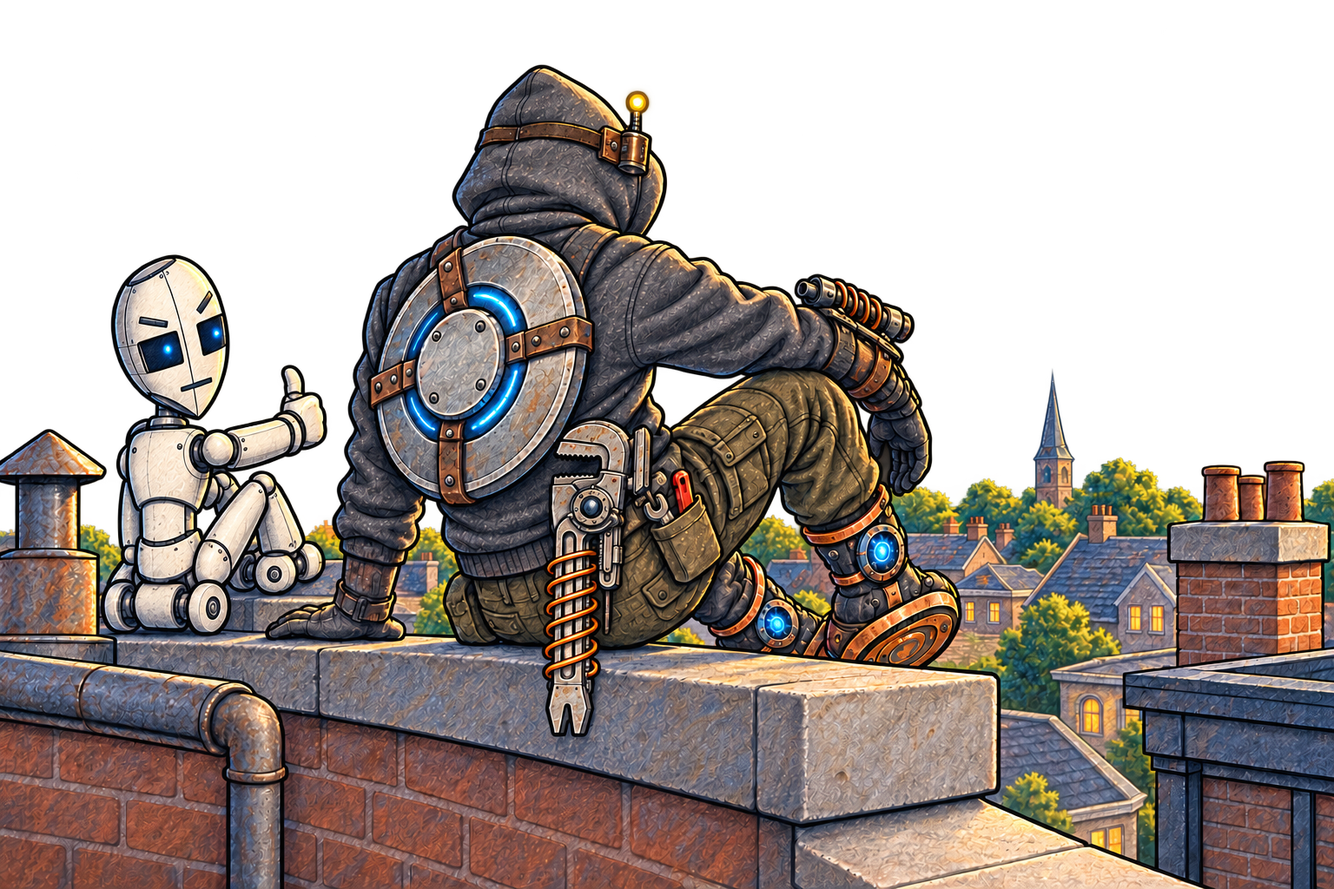
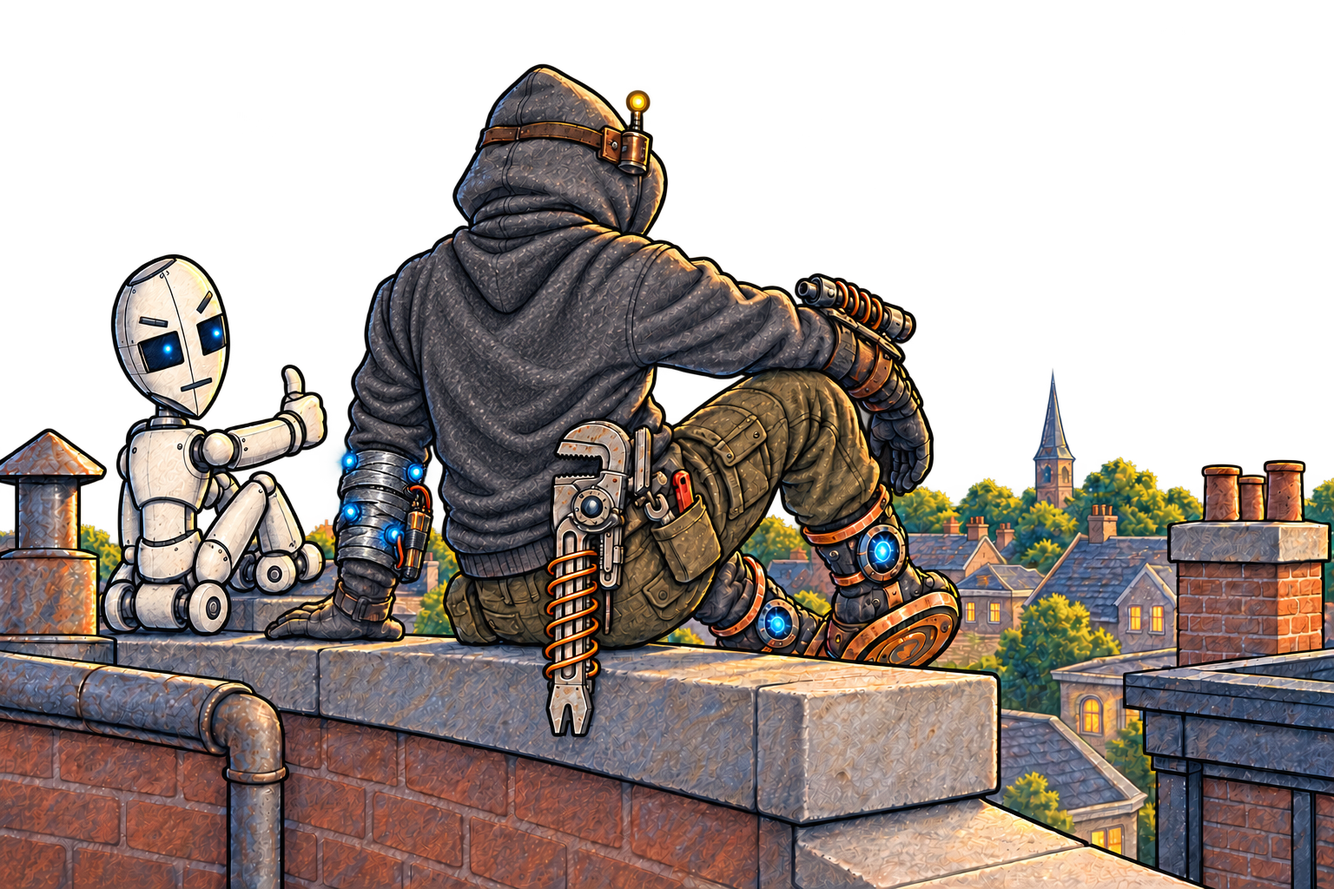
Replace physical shield artwork with energy armband

diff --git a/artwork/tech-hero/2026-09-23/index.html b/artwork/tech-hero/2026-09-23/index.html
@@ -1,5 +1,5 @@
 <!doctype html><html lang="en"><head><meta charset="utf-8"><meta name="viewport" content="width=device-width,initial-scale=1"><title>Tech Hero artwork · Paths of Wonder</title><style>
 *{box-sizing:border-box}html{background:#e5dac4;color:#242a30}body{margin:0;font:17px/1.55 system-ui,-apple-system,sans-serif}header,main,.end{max-width:1480px;margin:auto;padding:32px clamp(16px,4vw,56px)}header{padding-bottom:12px}h1,h2{font-family:Georgia,serif;line-height:1.15;font-weight:500}h1{font-size:clamp(32px,5vw,54px);margin:8px 0 20px}h2{font-size:28px;margin:8px 0}.intro{max-width:830px}.eyebrow,.label span{font-size:13px;letter-spacing:.06em;text-transform:uppercase;color:#635334}a{color:#314e46;text-underline-offset:4px}nav,.controls{display:flex;flex-wrap:wrap;gap:8px;margin:20px 0}nav a,button,footer a{min-height:44px;display:inline-flex;align-items:center;padding:9px 13px;border-radius:8px}nav a,button{border:1px solid #b6a88d;text-decoration:none;background:#f5efdf;font:inherit;color:inherit;cursor:pointer}button[aria-pressed=true]{background:#314e46;color:#fff}a:focus-visible,button:focus-visible{outline:3px solid #96612b;outline-offset:3px}main{display:grid;grid-template-columns:repeat(2,minmax(0,1fr));gap:24px;padding-top:12px}article{background:#f4eddb;border:1px solid #c6b99d;border-radius:10px;overflow:hidden;scroll-margin-top:16px}.label{padding:20px 24px 4px}.label p{font-size:14px;color:#655c48;margin:8px 0}.page{background:#f4eddb;padding:8px 16px}.art{display:block}img{display:block;width:100%;height:auto;max-height:620px;object-fit:contain}.context{display:none;font:20px/1.65 Georgia,serif;padding:8px 18px;white-space:pre-line}.reading .context{display:block}.reading .spot .art{max-width:430px;margin:auto}.large .context{font-size:25px}footer{display:flex;justify-content:space-between;flex-wrap:wrap;padding:8px 12px 14px}.end{color:#635334} @media(max-width:700px){main{grid-template-columns:1fr}.label{padding:18px 18px 4px}.page{padding:8px}.context{padding:8px 14px}img{max-height:none}}@media print{nav,.controls,footer{display:none}main{display:block}article{break-inside:avoid;margin:20px 0}}
-</style></head><body><header id="top"><div class="eyebrow">Paths of Wonder · Tech Hero · Artwork review</div><h1>The Can Opener, illustrated</h1><div class="intro"><p>Seventeen story illustrations and two color tool references. The latest revisions are collected here on warm parchment.</p><p>The hero’s face, skin, and hair stay hidden. The Can Opener’s energy blade is off when carried or used as a tool; the Stompers scene has it lying flat on the workbench.</p><p>These are review drafts. Suggested paragraph placements use your exact current text and do not modify the app or stories.</p></div><div class="controls"><button id="context-toggle" aria-pressed="false">Show story context</button><button id="type-toggle" aria-pressed="false">Larger reading text</button><a href="PLACEMENTS.md">Placement notes</a></div><nav aria-label="Illustrations"><a href="#01-garage-lab">The garage lab</a><a href="#02-old-sandwich">The very old sandwich</a><a href="#03-launcher-mishap">More power. Probably.</a><a href="#04-wheel-pop">THWOOM!</a><a href="#05-shield-cover-me">Shield Cover Me</a><a href="#06-asher-portable">Asher Portable</a><a href="#07-magnet-mishap">Magnet boot testing</a><a href="#08-stompers">The Stompers</a><a href="#09-up-the-wall">Up the wall</a><a href="#10-full-loadout">Full loadout</a><a href="#11-old-cannery">The old cannery</a><a href="#12-under-the-awning">Like a bat</a><a href="#13-max-office">An office fit for Max</a><a href="#14-max-on-stage">Max Grabs takes the stage</a><a href="#15-bot-pileup">Forklifts and rocket feet</a><a href="#16-precision">Precision</a><a href="#17-neighborhood-safe">The good kind of quiet</a><a href="#18-can-opener-active">The Can Opener — active</a><a href="#19-can-opener-tool-mode">The Can Opener — tool mode</a></nav></header><main><article id="01-garage-lab" class="opening"><div class="label"><span>opening</span><h2>The garage lab</h2><p>Scene 001 · Getting Home · after paragraph 7</p></div><div class="page"><div class="context before"><p>The voice comes from your computer: your trusty AI assistant and friend, Asher.</p></div><a class="art" href="01-garage-lab.png" aria-label="Open full-size The garage lab"><img src="01-garage-lab.png" alt="A garage workbench filled with tools, salvaged parts, a backpack, and Asher’s computer." loading="lazy"></a><div class="context after"><p>“Well, Asher, I got some storage drives, scrap metal I can melt down for other uses, a few chips, and the real win here…”</p></div></div><footer><a href="01-garage-lab.png" download>Download PNG</a><a href="#top">Back to top</a></footer></article><article id="02-old-sandwich" class="spot"><div class="label"><span>spot</span><h2>The very old sandwich</h2><p>Scene 008 · The Axe Blade · after paragraph 4</p></div><div class="page"><div class="context before"><p>The bot spins around, confused, and the cabinet door on its belly flaps open. A screwdriver falls out. Then a tape measure. Then a very old sandwich. That’s when you see your opening: a panel on its back, right between the shoulders.</p></div><a class="art" href="02-old-sandwich.png" aria-label="Open full-size The very old sandwich"><img src="02-old-sandwich.png" alt="A moldy sandwich falls from the Construction Bot’s open tool cabinet with a PLOP." loading="lazy"></a><div class="context after"><p>One more swing. The blade cuts the panel wide open, sparks fly, and the bot’s foot thrusters sputter out. It sits down with a big THUNK, like it’s taking a nap.</p></div></div><footer><a href="02-old-sandwich.png" download>Download PNG</a><a href="#top">Back to top</a></footer></article><article id="03-launcher-mishap" class="spot"><div class="label"><span>spot</span><h2>More power. Probably.</h2><p>Scene 021 · More Power · after paragraph 7</p></div><div class="page"><div class="context before"><p>You stand there with an empty wrist brace and your hair sticking straight up.</p></div><a class="art" href="03-launcher-mishap.png" aria-label="Open full-size More power. Probably."><img src="03-launcher-mishap.png" alt="A rock launcher is stuck backward in the wall; a gloved wrist has an empty brace." loading="lazy"></a><div class="context after"><p>“Ok,” you say. “Less power.”</p></div></div><footer><a href="03-launcher-mishap.png" download>Download PNG</a><a href="#top">Back to top</a></footer></article><article id="04-wheel-pop" class="spot"><div class="label"><span>spot</span><h2>THWOOM!</h2><p>Scene 026 · Heavier Than Expected · after paragraph 7</p></div><div class="page"><div class="context before"><p>The rock smashes into the front left wheel, and it pops right off its axle. The Load-Bot tips forward, spins in a slow, sad circle, and crashes onto its face with a BOOM that sets off a car alarm.</p></div><a class="art" href="04-wheel-pop.png" aria-label="Open full-size THWOOM!"><img src="04-wheel-pop.png" alt="The smiling Load-Bot loses a wheel beside the market, with a THWOOM." loading="lazy"></a><div class="context after"><p>It’s down, but it’s not out. Its forklift arms are still flailing, and your coil is empty. But it can’t reach behind itself.</p></div></div><footer><a href="04-wheel-pop.png" download>Download PNG</a><a href="#top">Back to top</a></footer></article><article id="05-shield-cover-me" class="feature"><div class="label"><span>feature</span><h2>Shield Cover Me</h2><p>Scene 033 · Shield Cover Me · after paragraph 3</p></div><div class="page"><div class="context before"><p>The stick skids off the light in a shower of sparks. The shield flickers, but it holds! The bot hits it again, and again, and you push forward behind the shield one step at a time. But you can’t get around it, and you can’t exactly fight with a shield and a thumb.</p></div><a class="art" href="05-shield-cover-me.png" aria-label="Open full-size Shield Cover Me"><img src="05-shield-cover-me.png" alt="A gloved thumb holds a loose shield emitter in place as a Security Bot strikes the blue shield." loading="lazy"></a><div class="context after"><p>“ASHER! SHIELD! COVER ME!”</p></div></div><footer><a href="05-shield-cover-me.png" download>Download PNG</a><a href="#top">Back to top</a></footer></article><article id="06-asher-portable" class="opening"><div class="label"><span>opening</span><h2>Asher Portable</h2><p>Scene 041 · Miniaturizing Asher · after paragraph 6</p></div><div class="page"><div class="context before"><p>“Welcome to the team, Asher Portable.”</p></div><a class="art" href="06-asher-portable.png" aria-label="Open full-size Asher Portable"><img src="06-asher-portable.png" alt="Asher Portable: goggles with a clip-on display, camera, earbud, and yellow-bulb signal booster." loading="lazy"></a><div class="context after"><p>“That is simply a description of what I am, sir.”</p></div></div><footer><a href="06-asher-portable.png" download>Download PNG</a><a href="#top">Back to top</a></footer></article><article id="07-magnet-mishap" class="spot"><div class="label"><span>spot</span><h2>Magnet boot testing</h2><p>Scene 044 · Magnet Boot Testing · after paragraph 9</p></div><div class="page"><div class="context before"><p>A wrench slides across the workbench and sticks to your left ankle. Then a screwdriver. Then a whole handful of bolts.</p></div><a class="art" href="07-magnet-mishap.png" aria-label="Open full-size Magnet boot testing"><img src="07-magnet-mishap.png" alt="Magnet boots stick to the refrigerator and floor plate, with tools clinging to one ankle." loading="lazy"></a><div class="context after"><p>“You are collecting tools at an impressive rate, sir.”</p></div></div><footer><a href="07-magnet-mishap.png" download>Download PNG</a><a href="#top">Back to top</a></footer></article><article id="08-stompers" class="feature"><div class="label"><span>feature</span><h2>The Stompers</h2><p>Scene 045 · The Stompers · after paragraph 9</p></div><div class="page"><div class="context before"><p>“The Stompers.”</p></div><a class="art" href="08-stompers.png" aria-label="Open full-size The Stompers"><img src="08-stompers.png" alt="The fully covered hero bounces toward the workbench; the powered-down Can Opener lies flat on the wood." loading="lazy"></a><div class="context after"><p>A pause.</p></div></div><footer><a href="08-stompers.png" download>Download PNG</a><a href="#top">Back to top</a></footer></article><article id="09-up-the-wall" class="spot"><div class="label"><span>spot</span><h2>Up the wall</h2><p>Scene 047 · Up the Wall · after paragraph 7</p></div><div class="page"><div class="context before"><p>Clunk. Clunk. Clunk. You walk up the wall one heavy step at a time, staying in the corner where the bot can’t lean out far enough to aim at you. It knows you’re out there somewhere, so it keeps zapping the mailbox just in case.</p></div><a class="art" href="09-up-the-wall.png" aria-label="Open full-size Up the wall"><img src="09-up-the-wall.png" alt="The fully covered hero climbs a steel wall using magnetic boots, with the inactive wrench on their belt." loading="lazy"></a><div class="context after"><p>You reach the top and peek over the edge. The bot has its back to you, skate wheels locked, leaning out over the front of the roof.</p></div></div><footer><a href="09-up-the-wall.png" download>Download PNG</a><a href="#top">Back to top</a></footer></article><article id="10-full-loadout" class="feature"><div class="label"><span>feature</span><h2>Full loadout</h2><p>Scene 049 · Full Loadout · after paragraph 7</p></div><div class="page"><div class="context before"><p>You look out over {world_name} from the roof. The Can Opener, The Wrist Wrock-It, Shield Cover Me, Asher Portable, The Stompers…every single one of them got you up here.</p></div><a class="art" href="10-full-loadout.png" aria-label="Open full-size Full loadout"><img src="10-full-loadout.png" alt="The fully covered hero rests above the neighborhood with all their inventions and a blue-eyed Security Bot." loading="lazy"></a><div class="context after"><p>The bot’s visor goes dark.</p></div></div><footer><a href="10-full-loadout.png" download>Download PNG</a><a href="#top">Back to top</a></footer></article><article id="11-old-cannery" class="feature"><div class="label"><span>feature</span><h2>The old cannery</h2><p>Scene 053 · A Destination · after paragraph 6</p></div><div class="page"><div class="context before"><p>GRABS AWESOME STRUCTURES. MAKING YOUR NEIGHBORHOOD MINE! The word “MINE” has been crossed out by hand, and “BETTER” is written above it. Under that, in gold letters two feet tall: GAS. WE BLOW YOU AWAY!</p></div><a class="art" href="11-old-cannery.png" aria-label="Open full-size The old cannery"><img src="11-old-cannery.png" alt="The fenced cannery has a rooftop antenna, trucks of broken robots, and gold GAS signs." loading="lazy"></a><div class="context after"><p>You stare at it for a long moment.</p></div></div><footer><a href="11-old-cannery.png" download>Download PNG</a><a href="#top">Back to top</a></footer></article><article id="12-under-the-awning" class="spot"><div class="label"><span>spot</span><h2>Like a bat</h2><p>Scene 054 · Drone Spotted · after paragraph 11</p></div><div class="page"><div class="context before"><p>You catch it with two fingers. Way, WAY too close.</p></div><a class="art" href="12-under-the-awning.png" aria-label="Open full-size Like a bat"><img src="12-under-the-awning.png" alt="The fully covered hero uses magnetic boots beneath an awning as a surveillance drone passes." loading="lazy"></a><div class="context after"><p>So it isn’t just a signal. Somebody is watching the whole neighborhood…and now you know his name.</p></div></div><footer><a href="12-under-the-awning.png" download>Download PNG</a><a href="#top">Back to top</a></footer></article><article id="13-max-office" class="feature"><div class="label"><span>feature</span><h2>An office fit for Max</h2><p>Scene 056 · The Side Window · after paragraph 6</p></div><div class="page"><div class="context before"><p>“Sir, there is a computer on that desk, and it is unlocked. There is a sticky note on the screen. It says ‘Password: password.’”</p></div><a class="art" href="13-max-office.png" aria-label="Open full-size An office fit for Max"><img src="13-max-office.png" alt="Max’s oversized office has a painting of him shaking hands with himself and a password note." loading="lazy"></a><div class="context after"><p>“He didn’t even need it. He left himself logged in.”</p></div></div><footer><a href="13-max-office.png" download>Download PNG</a><a href="#top">Back to top</a></footer></article><article id="14-max-on-stage" class="feature"><div class="label"><span>feature</span><h2>Max Grabs takes the stage</h2><p>Scene 058 · The Man in the Shiny Suit · after paragraph 21</p></div><div class="page"><div class="context before"><p>Standing behind the stage, still as statues, are two Security Bots with steady red eyes. One of them is giving the crowd a thumbs-up.</p></div><a class="art" href="14-max-on-stage.png" aria-label="Open full-size Max Grabs takes the stage"><img src="14-max-on-stage.png" alt="Max Grabs grins on a stage with gold balloons, flying note cards, and Security Bots." loading="lazy"></a><div class="context after"><p>“That is him, sir,” Asher says in your ear.</p></div></div><footer><a href="14-max-on-stage.png" download>Download PNG</a><a href="#top">Back to top</a></footer></article><article id="15-bot-pileup" class="spot"><div class="label"><span>spot</span><h2>Forklifts and rocket feet</h2><p>Scene 060 · The Front Gate · after paragraph 7</p></div><div class="page"><div class="context before"><p>You pop one panel. You pop the other. Pull. Pull. Both sets of eyes fade to soft blue.</p></div><a class="art" href="15-bot-pileup.png" aria-label="Open full-size Forklifts and rocket feet"><img src="15-bot-pileup.png" alt="A Load-Bot and Construction Bot are tangled in a heap, their eyes now blue." loading="lazy"></a><div class="context after"><p>“Sorry, guys,” you say, and you mean it. “I’ll be back for you.”</p></div></div><footer><a href="15-bot-pileup.png" download>Download PNG</a><a href="#top">Back to top</a></footer></article><article id="16-precision" class="feature"><div class="label"><span>feature</span><h2>Precision</h2><p>Scene 066 · Precision · after paragraph 3</p></div><div class="page"><div class="context before"><p>Every terminal goes dark at once. The Robot Improver 3 makes a sound like a very large balloon letting go, and its lights go out row by row. On the roof, the antenna stops humming.</p></div><a class="art" href="16-precision.png?v=2" aria-label="Open full-size Precision"><img src="16-precision.png?v=2" alt="A precise blue-white discharge passes Max and strikes the cannery’s control terminals." loading="lazy"></a><div class="context after"><p>And all across {world_name}, in alleys and empty lots and the middle of Elm Street, every haywire robot slows down, lowers its arms, and stops. Hundreds of flickering red lights fade to a soft, calm blue.</p></div></div><footer><a href="16-precision.png?v=2" download>Download PNG</a><a href="#top">Back to top</a></footer></article><article id="17-neighborhood-safe" class="feature"><div class="label"><span>feature</span><h2>The good kind of quiet</h2><p>Scene 068 · Neighborhood Safe · after paragraph 5</p></div><div class="page"><div class="context before"><p>You nod back, and you keep walking.</p></div><a class="art" href="17-neighborhood-safe.png" aria-label="Open full-size The good kind of quiet"><img src="17-neighborhood-safe.png" alt="A child pats a peaceful robot, Mrs. Ruiz salutes, and the fully covered hero walks home." loading="lazy"></a><div class="context after"><p>You pass the top of Main Street. Mr. Lin’s bench is still gone. There are four bolts in the sidewalk where it used to be, and nothing else.</p></div></div><footer><a href="17-neighborhood-safe.png" download>Download PNG</a><a href="#top">Back to top</a></footer></article><article id="18-can-opener-active" class="reference"><div class="label"><span>reference</span><h2>The Can Opener — active</h2><p>Scene 005 · Building The Can Opener · after paragraph 11</p></div><div class="page"><div class="context before"><p>The wrench head shifts with a sharp mechanical click, and a crackling energy blade snaps out along the side of the head like an axe made of lightning.</p></div><a class="art" href="18-can-opener-active.png" aria-label="Open full-size The Can Opener — active"><img src="18-can-opener-active.png" alt="The Can Opener in active mode: steel wrench, copper coils, a blue power core, and an energy axe blade." loading="lazy"></a><div class="context after"><p>You stare at it.</p></div></div><footer><a href="18-can-opener-active.png" download>Download PNG</a><a href="#top">Back to top</a></footer></article><article id="19-can-opener-tool-mode" class="reference"><div class="label"><span>reference</span><h2>The Can Opener — tool mode</h2><p>Continuity reference · powered-down tool</p></div><div class="page"><a class="art" href="19-can-opener-tool-mode.png" aria-label="Open full-size The Can Opener — tool mode"><img src="19-can-opener-tool-mode.png" alt="The Can Opener in tool mode: steel jaws, copper coils, a dark core, and no deployed blade." loading="lazy"></a></div><footer><a href="19-can-opener-tool-mode.png" download>Download PNG</a><a href="#top">Back to top</a></footer></article></main><div class="end">Tap an image for its full-size PNG. <a href="README.md">Production notes</a> · <a href="prompts.json">Prompt set</a></div><script>
+</style></head><body><header id="top"><div class="eyebrow">Paths of Wonder · Tech Hero · Artwork review</div><h1>The Can Opener, illustrated</h1><div class="intro"><p>Seventeen story illustrations and two color tool references. The latest revisions are collected here on warm parchment.</p><p>The hero’s face, skin, and hair stay hidden. The Can Opener’s energy blade is off when carried or used as a tool; the Stompers scene has it lying flat on the workbench.</p><p>These are review drafts. Suggested paragraph placements use your exact current text and do not modify the app or stories.</p></div><div class="controls"><button id="context-toggle" aria-pressed="false">Show story context</button><button id="type-toggle" aria-pressed="false">Larger reading text</button><a href="PLACEMENTS.md">Placement notes</a></div><nav aria-label="Illustrations"><a href="#01-garage-lab">The garage lab</a><a href="#02-old-sandwich">The very old sandwich</a><a href="#03-launcher-mishap">More power. Probably.</a><a href="#04-wheel-pop">THWOOM!</a><a href="#05-shield-cover-me">Shield Cover Me</a><a href="#06-asher-portable">Asher Portable</a><a href="#07-magnet-mishap">Magnet boot testing</a><a href="#08-stompers">The Stompers</a><a href="#09-up-the-wall">Up the wall</a><a href="#10-full-loadout">Full loadout</a><a href="#11-old-cannery">The old cannery</a><a href="#12-under-the-awning">Like a bat</a><a href="#13-max-office">An office fit for Max</a><a href="#14-max-on-stage">Max Grabs takes the stage</a><a href="#15-bot-pileup">Forklifts and rocket feet</a><a href="#16-precision">Precision</a><a href="#17-neighborhood-safe">The good kind of quiet</a><a href="#18-can-opener-active">The Can Opener — active</a><a href="#19-can-opener-tool-mode">The Can Opener — tool mode</a></nav></header><main><article id="01-garage-lab" class="opening"><div class="label"><span>opening</span><h2>The garage lab</h2><p>Scene 001 · Getting Home · after paragraph 7</p></div><div class="page"><div class="context before"><p>The voice comes from your computer: your trusty AI assistant and friend, Asher.</p></div><a class="art" href="01-garage-lab.png" aria-label="Open full-size The garage lab"><img src="01-garage-lab.png" alt="A garage workbench filled with tools, salvaged parts, a backpack, and Asher’s computer." loading="lazy"></a><div class="context after"><p>“Well, Asher, I got some storage drives, scrap metal I can melt down for other uses, a few chips, and the real win here…”</p></div></div><footer><a href="01-garage-lab.png" download>Download PNG</a><a href="#top">Back to top</a></footer></article><article id="02-old-sandwich" class="spot"><div class="label"><span>spot</span><h2>The very old sandwich</h2><p>Scene 008 · The Axe Blade · after paragraph 4</p></div><div class="page"><div class="context before"><p>The bot spins around, confused, and the cabinet door on its belly flaps open. A screwdriver falls out. Then a tape measure. Then a very old sandwich. That’s when you see your opening: a panel on its back, right between the shoulders.</p></div><a class="art" href="02-old-sandwich.png" aria-label="Open full-size The very old sandwich"><img src="02-old-sandwich.png" alt="A moldy sandwich falls from the Construction Bot’s open tool cabinet with a PLOP." loading="lazy"></a><div class="context after"><p>One more swing. The blade cuts the panel wide open, sparks fly, and the bot’s foot thrusters sputter out. It sits down with a big THUNK, like it’s taking a nap.</p></div></div><footer><a href="02-old-sandwich.png" download>Download PNG</a><a href="#top">Back to top</a></footer></article><article id="03-launcher-mishap" class="spot"><div class="label"><span>spot</span><h2>More power. Probably.</h2><p>Scene 021 · More Power · after paragraph 7</p></div><div class="page"><div class="context before"><p>You stand there with an empty wrist brace and your hair sticking straight up.</p></div><a class="art" href="03-launcher-mishap.png" aria-label="Open full-size More power. Probably."><img src="03-launcher-mishap.png" alt="A rock launcher is stuck backward in the wall; a gloved wrist has an empty brace." loading="lazy"></a><div class="context after"><p>“Ok,” you say. “Less power.”</p></div></div><footer><a href="03-launcher-mishap.png" download>Download PNG</a><a href="#top">Back to top</a></footer></article><article id="04-wheel-pop" class="spot"><div class="label"><span>spot</span><h2>THWOOM!</h2><p>Scene 026 · Heavier Than Expected · after paragraph 7</p></div><div class="page"><div class="context before"><p>The rock smashes into the front left wheel, and it pops right off its axle. The Load-Bot tips forward, spins in a slow, sad circle, and crashes onto its face with a BOOM that sets off a car alarm.</p></div><a class="art" href="04-wheel-pop.png" aria-label="Open full-size THWOOM!"><img src="04-wheel-pop.png" alt="The smiling Load-Bot loses a wheel beside the market, with a THWOOM." loading="lazy"></a><div class="context after"><p>It’s down, but it’s not out. Its forklift arms are still flailing, and your coil is empty. But it can’t reach behind itself.</p></div></div><footer><a href="04-wheel-pop.png" download>Download PNG</a><a href="#top">Back to top</a></footer></article><article id="05-shield-cover-me" class="feature"><div class="label"><span>feature</span><h2>Shield Cover Me</h2><p>Scene 033 · Shield Cover Me · after paragraph 3</p></div><div class="page"><div class="context before"><p>The stick skids off the light in a shower of sparks. The shield flickers, but it holds! The bot hits it again, and again, and you push forward behind the shield one step at a time. But you can’t get around it, and you can’t exactly fight with a shield and a thumb.</p></div><a class="art" href="05-shield-cover-me.png?v=2" aria-label="Open full-size Shield Cover Me"><img src="05-shield-cover-me.png?v=2" alt="A duct-taped armband with glowing blue dots and a wired side power pack projects an energy shield against a Security Bot’s sparking baton." loading="lazy"></a><div class="context after"><p>“ASHER! SHIELD! COVER ME!”</p></div></div><footer><a href="05-shield-cover-me.png?v=2" download>Download PNG</a><a href="#top">Back to top</a></footer></article><article id="06-asher-portable" class="opening"><div class="label"><span>opening</span><h2>Asher Portable</h2><p>Scene 041 · Miniaturizing Asher · after paragraph 6</p></div><div class="page"><div class="context before"><p>“Welcome to the team, Asher Portable.”</p></div><a class="art" href="06-asher-portable.png" aria-label="Open full-size Asher Portable"><img src="06-asher-portable.png" alt="Asher Portable: goggles with a clip-on display, camera, earbud, and yellow-bulb signal booster." loading="lazy"></a><div class="context after"><p>“That is simply a description of what I am, sir.”</p></div></div><footer><a href="06-asher-portable.png" download>Download PNG</a><a href="#top">Back to top</a></footer></article><article id="07-magnet-mishap" class="spot"><div class="label"><span>spot</span><h2>Magnet boot testing</h2><p>Scene 044 · Magnet Boot Testing · after paragraph 9</p></div><div class="page"><div class="context before"><p>A wrench slides across the workbench and sticks to your left ankle. Then a screwdriver. Then a whole handful of bolts.</p></div><a class="art" href="07-magnet-mishap.png" aria-label="Open full-size Magnet boot testing"><img src="07-magnet-mishap.png" alt="Magnet boots stick to the refrigerator and floor plate, with tools clinging to one ankle." loading="lazy"></a><div class="context after"><p>“You are collecting tools at an impressive rate, sir.”</p></div></div><footer><a href="07-magnet-mishap.png" download>Download PNG</a><a href="#top">Back to top</a></footer></article><article id="08-stompers" class="feature"><div class="label"><span>feature</span><h2>The Stompers</h2><p>Scene 045 · The Stompers · after paragraph 9</p></div><div class="page"><div class="context before"><p>“The Stompers.”</p></div><a class="art" href="08-stompers.png" aria-label="Open full-size The Stompers"><img src="08-stompers.png" alt="The fully covered hero bounces toward the workbench; the powered-down Can Opener lies flat on the wood." loading="lazy"></a><div class="context after"><p>A pause.</p></div></div><footer><a href="08-stompers.png" download>Download PNG</a><a href="#top">Back to top</a></footer></article><article id="09-up-the-wall" class="spot"><div class="label"><span>spot</span><h2>Up the wall</h2><p>Scene 047 · Up the Wall · after paragraph 7</p></div><div class="page"><div class="context before"><p>Clunk. Clunk. Clunk. You walk up the wall one heavy step at a time, staying in the corner where the bot can’t lean out far enough to aim at you. It knows you’re out there somewhere, so it keeps zapping the mailbox just in case.</p></div><a class="art" href="09-up-the-wall.png" aria-label="Open full-size Up the wall"><img src="09-up-the-wall.png" alt="The fully covered hero climbs a steel wall using magnetic boots, with the inactive wrench on their belt." loading="lazy"></a><div class="context after"><p>You reach the top and peek over the edge. The bot has its back to you, skate wheels locked, leaning out over the front of the roof.</p></div></div><footer><a href="09-up-the-wall.png" download>Download PNG</a><a href="#top">Back to top</a></footer></article><article id="10-full-loadout" class="feature"><div class="label"><span>feature</span><h2>Full loadout</h2><p>Scene 049 · Full Loadout · after paragraph 7</p></div><div class="page"><div class="context before"><p>You look out over {world_name} from the roof. The Can Opener, The Wrist Wrock-It, Shield Cover Me, Asher Portable, The Stompers…every single one of them got you up here.</p></div><a class="art" href="10-full-loadout.png?v=2" aria-label="Open full-size Full loadout"><img src="10-full-loadout.png?v=2" alt="The fully covered hero rests on a rooftop with a duct-taped shield armband, other inventions, and a blue-eyed Security Bot." loading="lazy"></a><div class="context after"><p>The bot’s visor goes dark.</p></div></div><footer><a href="10-full-loadout.png?v=2" download>Download PNG</a><a href="#top">Back to top</a></footer></article><article id="11-old-cannery" class="feature"><div class="label"><span>feature</span><h2>The old cannery</h2><p>Scene 053 · A Destination · after paragraph 6</p></div><div class="page"><div class="context before"><p>GRABS AWESOME STRUCTURES. MAKING YOUR NEIGHBORHOOD MINE! The word “MINE” has been crossed out by hand, and “BETTER” is written above it. Under that, in gold letters two feet tall: GAS. WE BLOW YOU AWAY!</p></div><a class="art" href="11-old-cannery.png" aria-label="Open full-size The old cannery"><img src="11-old-cannery.png" alt="The fenced cannery has a rooftop antenna, trucks of broken robots, and gold GAS signs." loading="lazy"></a><div class="context after"><p>You stare at it for a long moment.</p></div></div><footer><a href="11-old-cannery.png" download>Download PNG</a><a href="#top">Back to top</a></footer></article><article id="12-under-the-awning" class="spot"><div class="label"><span>spot</span><h2>Like a bat</h2><p>Scene 054 · Drone Spotted · after paragraph 11</p></div><div class="page"><div class="context before"><p>You catch it with two fingers. Way, WAY too close.</p></div><a class="art" href="12-under-the-awning.png" aria-label="Open full-size Like a bat"><img src="12-under-the-awning.png" alt="The fully covered hero uses magnetic boots beneath an awning as a surveillance drone passes." loading="lazy"></a><div class="context after"><p>So it isn’t just a signal. Somebody is watching the whole neighborhood…and now you know his name.</p></div></div><footer><a href="12-under-the-awning.png" download>Download PNG</a><a href="#top">Back to top</a></footer></article><article id="13-max-office" class="feature"><div class="label"><span>feature</span><h2>An office fit for Max</h2><p>Scene 056 · The Side Window · after paragraph 6</p></div><div class="page"><div class="context before"><p>“Sir, there is a computer on that desk, and it is unlocked. There is a sticky note on the screen. It says ‘Password: password.’”</p></div><a class="art" href="13-max-office.png" aria-label="Open full-size An office fit for Max"><img src="13-max-office.png" alt="Max’s oversized office has a painting of him shaking hands with himself and a password note." loading="lazy"></a><div class="context after"><p>“He didn’t even need it. He left himself logged in.”</p></div></div><footer><a href="13-max-office.png" download>Download PNG</a><a href="#top">Back to top</a></footer></article><article id="14-max-on-stage" class="feature"><div class="label"><span>feature</span><h2>Max Grabs takes the stage</h2><p>Scene 058 · The Man in the Shiny Suit · after paragraph 21</p></div><div class="page"><div class="context before"><p>Standing behind the stage, still as statues, are two Security Bots with steady red eyes. One of them is giving the crowd a thumbs-up.</p></div><a class="art" href="14-max-on-stage.png" aria-label="Open full-size Max Grabs takes the stage"><img src="14-max-on-stage.png" alt="Max Grabs grins on a stage with gold balloons, flying note cards, and Security Bots." loading="lazy"></a><div class="context after"><p>“That is him, sir,” Asher says in your ear.</p></div></div><footer><a href="14-max-on-stage.png" download>Download PNG</a><a href="#top">Back to top</a></footer></article><article id="15-bot-pileup" class="spot"><div class="label"><span>spot</span><h2>Forklifts and rocket feet</h2><p>Scene 060 · The Front Gate · after paragraph 7</p></div><div class="page"><div class="context before"><p>You pop one panel. You pop the other. Pull. Pull. Both sets of eyes fade to soft blue.</p></div><a class="art" href="15-bot-pileup.png" aria-label="Open full-size Forklifts and rocket feet"><img src="15-bot-pileup.png" alt="A Load-Bot and Construction Bot are tangled in a heap, their eyes now blue." loading="lazy"></a><div class="context after"><p>“Sorry, guys,” you say, and you mean it. “I’ll be back for you.”</p></div></div><footer><a href="15-bot-pileup.png" download>Download PNG</a><a href="#top">Back to top</a></footer></article><article id="16-precision" class="feature"><div class="label"><span>feature</span><h2>Precision</h2><p>Scene 066 · Precision · after paragraph 3</p></div><div class="page"><div class="context before"><p>Every terminal goes dark at once. The Robot Improver 3 makes a sound like a very large balloon letting go, and its lights go out row by row. On the roof, the antenna stops humming.</p></div><a class="art" href="16-precision.png?v=2" aria-label="Open full-size Precision"><img src="16-precision.png?v=2" alt="A precise blue-white discharge passes Max and strikes the cannery’s control terminals." loading="lazy"></a><div class="context after"><p>And all across {world_name}, in alleys and empty lots and the middle of Elm Street, every haywire robot slows down, lowers its arms, and stops. Hundreds of flickering red lights fade to a soft, calm blue.</p></div></div><footer><a href="16-precision.png?v=2" download>Download PNG</a><a href="#top">Back to top</a></footer></article><article id="17-neighborhood-safe" class="feature"><div class="label"><span>feature</span><h2>The good kind of quiet</h2><p>Scene 068 · Neighborhood Safe · after paragraph 5</p></div><div class="page"><div class="context before"><p>You nod back, and you keep walking.</p></div><a class="art" href="17-neighborhood-safe.png" aria-label="Open full-size The good kind of quiet"><img src="17-neighborhood-safe.png" alt="A child pats a peaceful robot, Mrs. Ruiz salutes, and the fully covered hero walks home." loading="lazy"></a><div class="context after"><p>You pass the top of Main Street. Mr. Lin’s bench is still gone. There are four bolts in the sidewalk where it used to be, and nothing else.</p></div></div><footer><a href="17-neighborhood-safe.png" download>Download PNG</a><a href="#top">Back to top</a></footer></article><article id="18-can-opener-active" class="reference"><div class="label"><span>reference</span><h2>The Can Opener — active</h2><p>Scene 005 · Building The Can Opener · after paragraph 11</p></div><div class="page"><div class="context before"><p>The wrench head shifts with a sharp mechanical click, and a crackling energy blade snaps out along the side of the head like an axe made of lightning.</p></div><a class="art" href="18-can-opener-active.png" aria-label="Open full-size The Can Opener — active"><img src="18-can-opener-active.png" alt="The Can Opener in active mode: steel wrench, copper coils, a blue power core, and an energy axe blade." loading="lazy"></a><div class="context after"><p>You stare at it.</p></div></div><footer><a href="18-can-opener-active.png" download>Download PNG</a><a href="#top">Back to top</a></footer></article><article id="19-can-opener-tool-mode" class="reference"><div class="label"><span>reference</span><h2>The Can Opener — tool mode</h2><p>Continuity reference · powered-down tool</p></div><div class="page"><a class="art" href="19-can-opener-tool-mode.png" aria-label="Open full-size The Can Opener — tool mode"><img src="19-can-opener-tool-mode.png" alt="The Can Opener in tool mode: steel jaws, copper coils, a dark core, and no deployed blade." loading="lazy"></a></div><footer><a href="19-can-opener-tool-mode.png" download>Download PNG</a><a href="#top">Back to top</a></footer></article></main><div class="end">Tap an image for its full-size PNG. <a href="README.md">Production notes</a> · <a href="prompts.json">Prompt set</a></div><script>
 for(const [id,cls] of [['context-toggle','reading'],['type-toggle','large']])document.getElementById(id).addEventListener('click',e=>{const enabled=document.body.classList.toggle(cls);e.currentTarget.setAttribute('aria-pressed',String(enabled));});
 </script></body></html>

diff --git a/artwork/tech-hero/2026-09-23/README.md b/artwork/tech-hero/2026-09-23/README.md
@@ -32,6 +32,10 @@ The documents were read as references. Their suggested app schemas, unlock scree
 
 ## Status and verification
 
+### September 24 shield revision
+
+Jeff replaced the physical shield with a duct-taped armband, glowing blue dots, and a wired side power pack. The built-in image generation tool revised `05-shield-cover-me.png` to show its projected energy barrier and `10-full-loadout.png` to show the same band at rest, removing the back-mounted metal shield. Full edit prompts and prior image hashes are recorded in `prompts.json` / `manifest.json`. The gallery and app WebP assets use these revisions, with updated accessibility descriptions; authored text and placement anchors are unchanged. The records below describe the original batch.
+
 These are approved artwork assets, not an app deployment. Existing story data, choices, IDs, and installed app artwork are unchanged. The source excerpts shown by the gallery are copied directly from the current story without rewriting.
 
 All 19 deliverables are original-resolution PNGs with genuine alpha transparency, verified after generation. The final files are copied byte-for-byte from their selected generated outputs. Exact paragraph anchors, gallery file links, and image hashes are checked. The gallery's browser rendering was not automatically inspected because browser policy blocks local file navigation; its source and assets were checked directly.

diff --git a/artwork/ART_DIRECTION.md b/artwork/ART_DIRECTION.md
@@ -17,6 +17,7 @@ These rules record Jeff's artwork direction from September 23, 2026.
 - Tool mode: the axe blade is completely absent, not replaced by a white or steel blade. Switch it off when repairing, climbing, resting, carrying, or setting the tool down. It is normally active only in robot combat; the scripted finale discharge is a separate illustrated action.
 - A tool on a workbench rests flat against the tabletop. It must not hover or balance upright without physical support.
 - The Wrist Wrock-It is a cylindrical spring/coil rock launcher. Do not substitute the wrench in its experiment scenes.
+- Shield Cover Me is a wrist/forearm armband wrapped in duct tape, with glowing blue dot emitters and a wired power pack attached to the side (Jeff's September 24 revision). It projects a blue energy barrier; there is no physical disc, lid, shield handle or back-mounted shield. In resting scenes the barrier is off, with the armband still worn.
 - The moldy-sandwich drawing includes the sound effect `PLOP` beside the sandwich, per Jeff's request.
 
 ## Book use
